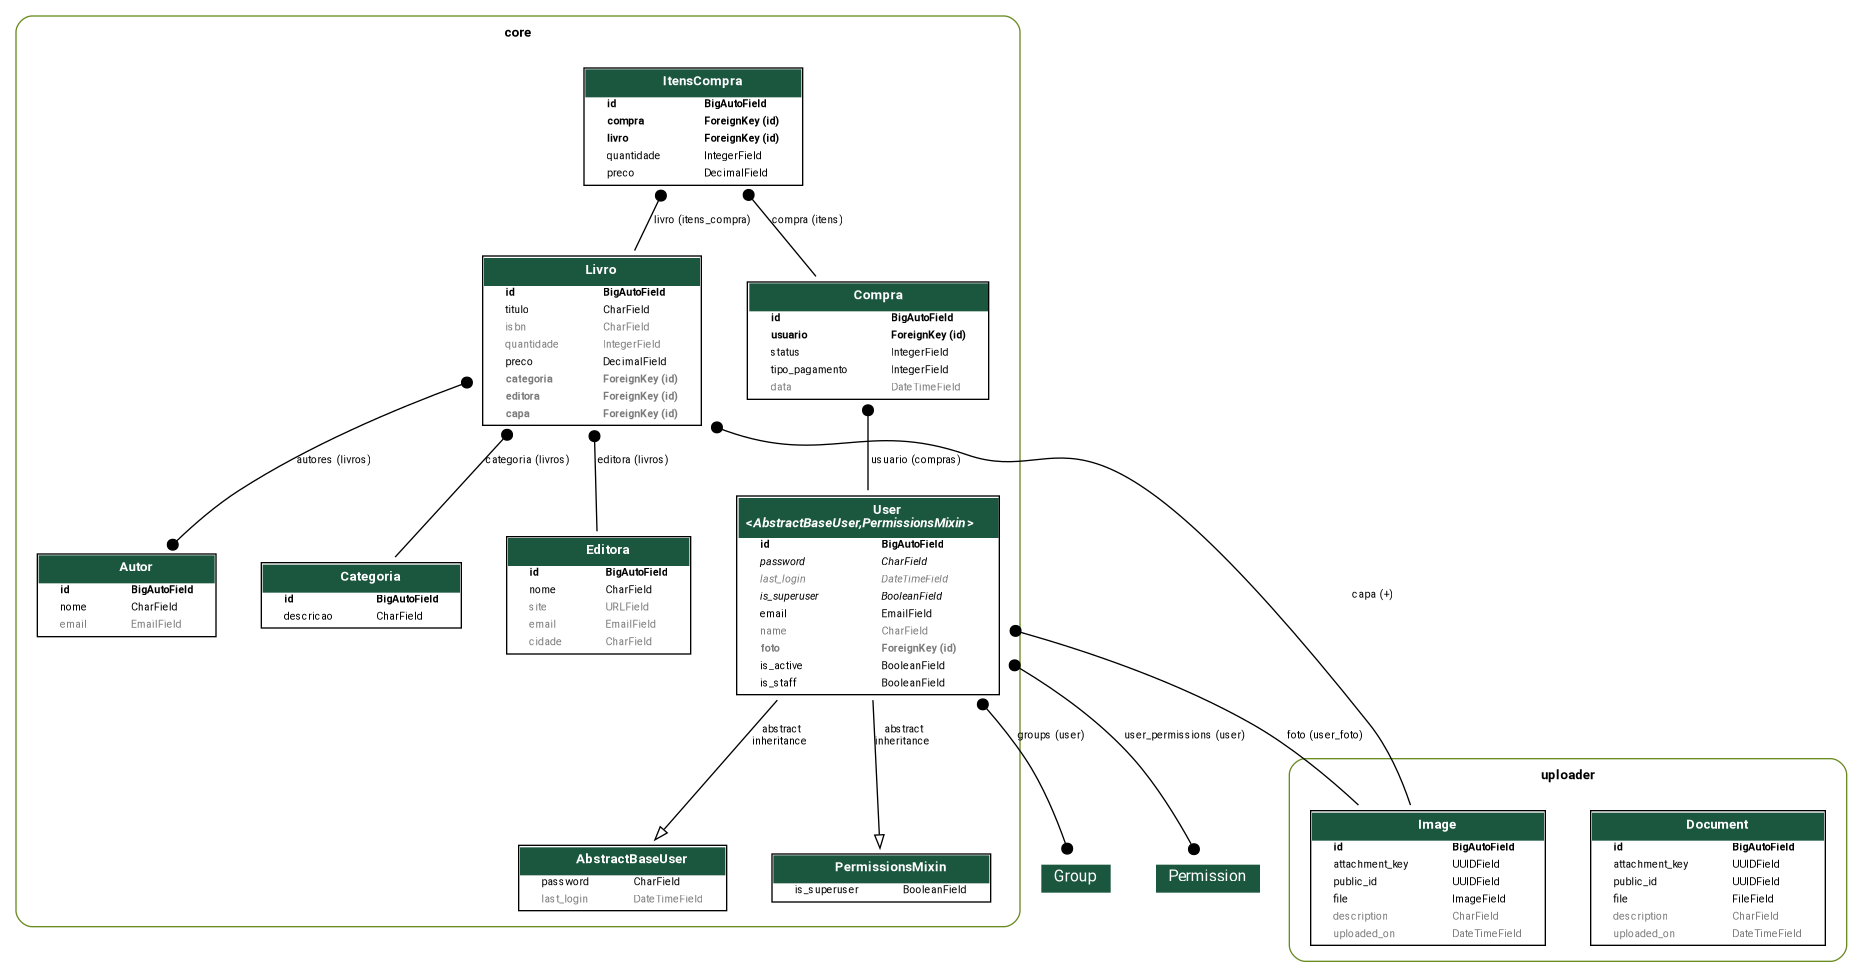
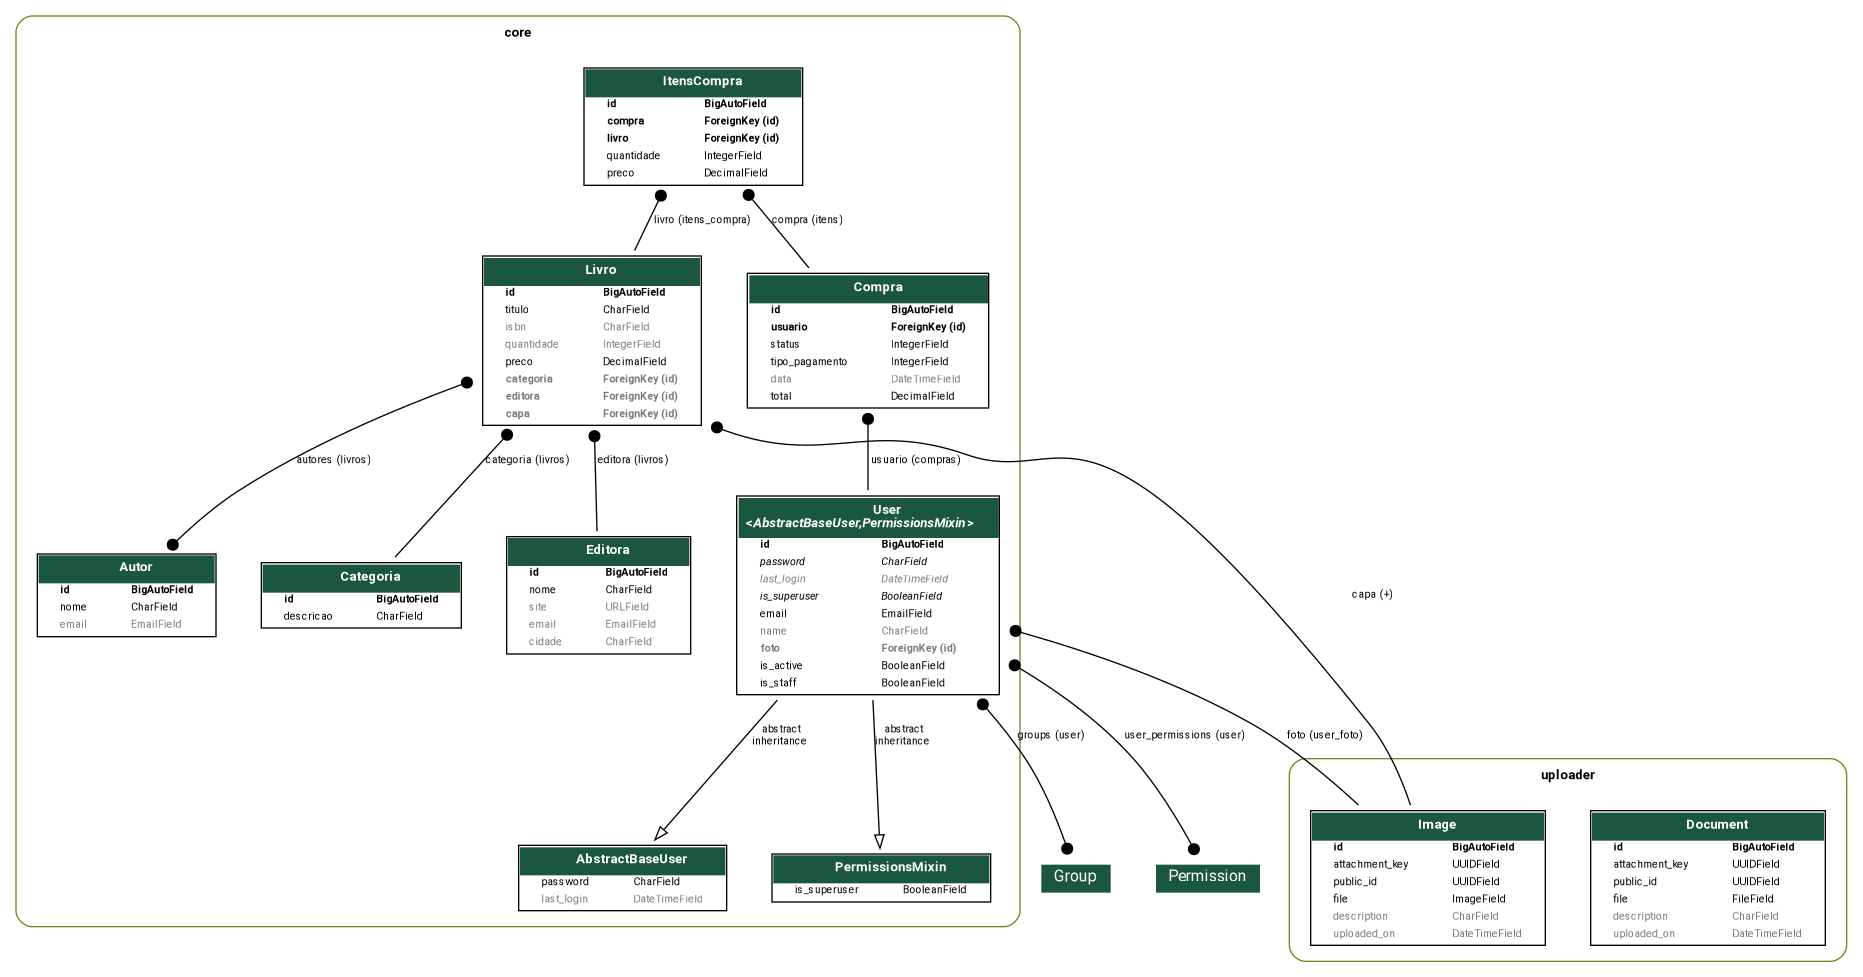
feat(40-class): add purchase total

Changed region(s): [[0.4047, 0.2764, 0.5293, 0.4299]]

diff --git a/core/models/compra.py b/core/models/compra.py
@@ -1,3 +1,5 @@
+from xml.etree.ElementInclude import default_loader
+
 from django.db import models
 
 from .user import User
@@ -28,10 +30,17 @@ class Compra(models.Model):
         default=TipoPagamento.PIX
     )
     data = models.DateTimeField(auto_now_add=True)
+    total = models.DecimalField(max_digits=10, decimal_places=2, default=0)
 
-    @property
-    def total(self):
-        return sum(item.preco * item.quantidade for item in self.itens.all())
+    # @property
+    # def total(self):
+    #    return sum(item.preco * item.quantidade for item in self.itens.all())
+
+    def save(self, *args, **kwargs):
+        if self.pk:
+            self.total = sum(item.preco * item.quantidade for item in self.itens.all())
+        super().save(*args, **kwargs)
+
 
 class ItensCompra(models.Model):
     compra = models.ForeignKey(Compra, on_delete=models.CASCADE, related_name='itens')

diff --git a/core/migrations/0021_compra_total.py b/core/migrations/0021_compra_total.py
@@ -1,0 +1,18 @@
+# Generated by Django 5.2.12 on 2026-10-20 11:56
+
+from django.db import migrations, models
+
+
+class Migration(migrations.Migration):
+
+    dependencies = [
+        ('core', '0020_alter_itenscompra_livro'),
+    ]
+
+    operations = [
+        migrations.AddField(
+            model_name='compra',
+            name='total',
+            field=models.DecimalField(decimal_places=2, default=0, max_digits=10),
+        ),
+    ]

diff --git a/core/serializers/compra.py b/core/serializers/compra.py
@@ -86,7 +86,7 @@ class CompraCreateUpdateSerializer(ModelSerializer):
             else:
                 item['preco'] = item['livro'].preco
                 ItensCompra.objects.create(compra=compra, **item)
-
+        compra.save
         return compra
 
     @transaction.atomic
